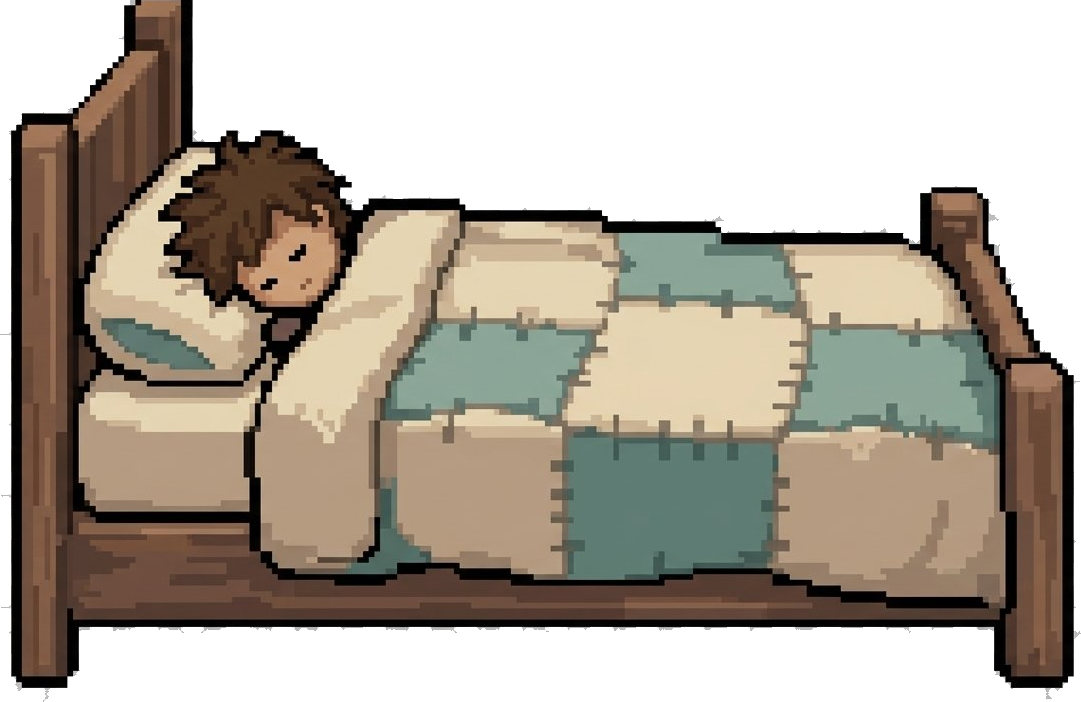
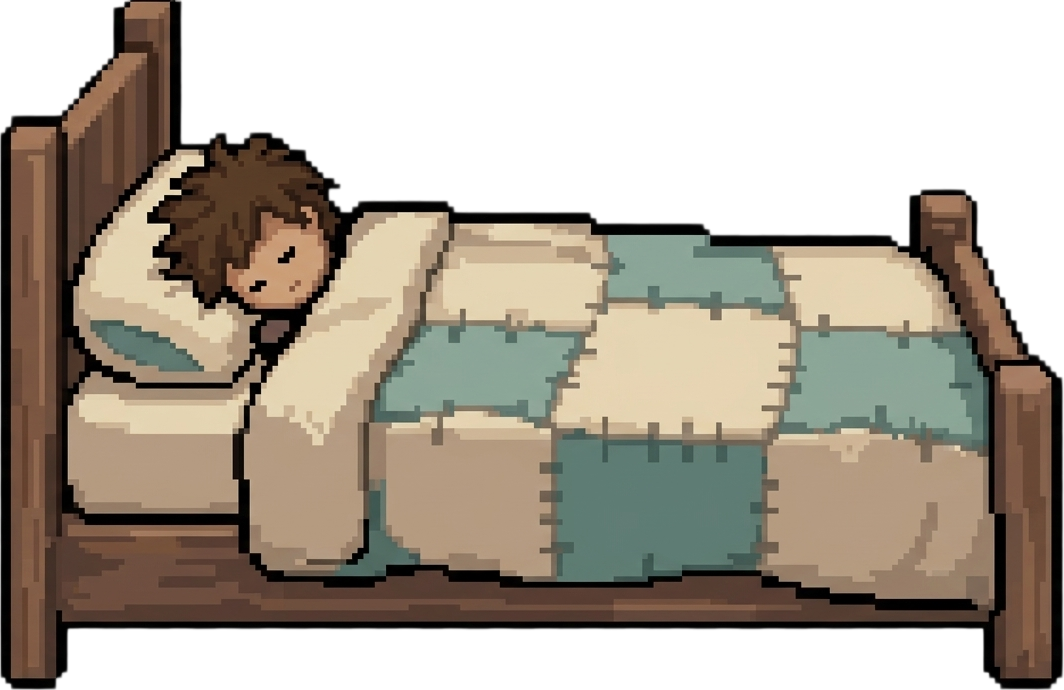
feat(game): finalize morning cabin with gemini furniture; remove asset backups

Changed region(s): [[0.0, 0.0, 1.0, 1.0]]

diff --git a/game-client/src/scenes/MorningScene.js b/game-client/src/scenes/MorningScene.js
@@ -1,10 +1,10 @@
 import Phaser from 'phaser';
 
-// Beat 1 — the morning. A cozy one-room cabin built from real art assets.
-// Walk with arrow keys, press E near a station to interact. Freeform order.
-// Make coffee, sit a while, then head out the door when you're ready.
-// Nature (bird singing + growing light) wakes you; opening the curtains warms
-// the room. The bird motif is planted here and pays off in the ending.
+// Beat 1 — the morning. A cozy one-room cabin: Penzilla walls/floor with the
+// hand-drawn Gemini furniture on top. Walk with arrows, press E at a station.
+// Make coffee and sit a while, make breakfast (cereal + milk from the fridge),
+// then head out the door. Nature wakes you; the curtains warm the room. The
+// bird at the window is planted here and pays off in the ending.
 export default class MorningScene extends Phaser.Scene {
   constructor() {
     super('MorningScene');
@@ -16,15 +16,10 @@ export default class MorningScene extends Phaser.Scene {
 
     this.cameras.main.setBackgroundColor('#1a140e');
 
-    // ── background room ──
-    // cabin walls + floor are tiled from the Penzilla set (see buildBackground)
-
-    // floor line: where furniture and the player stand
     this.floorY = height - 96;
-    this.px = 7;                 // one source pixel = 7 screen pixels (whole-room scale)
+    this.px = 7;                 // penzilla wall/floor scale
     this.buildBackground();
 
-    // dim overlay (brightens when curtains open)
     this.roomDim = this.add.rectangle(0, 0, width, height, 0x0a0d14)
       .setOrigin(0, 0).setDepth(40).setAlpha(0.5);
 
@@ -37,21 +32,21 @@ export default class MorningScene extends Phaser.Scene {
     this.keyE = this.input.keyboard.addKey('E');
     this.keyE.on('down', () => this.tryInteract());
 
-    this.done = { curtains: false, teeth: false, coffee: false };
+    this.done = { curtains: false, teeth: false, coffee: false, cereal: false, milk: false };
     this.busy = false;
     this.sitting = false;
 
     this.startAsleep();
   }
 
+  // scale a hi-res Gemini piece to a target on-screen width / height
+  fitW(key, w) { return w / this.textures.get(key).getSourceImage().width; }
+  fitH(key, h) { return h / this.textures.get(key).getSourceImage().height; }
+
   buildBackground() {
     const { W, H, floorY, px } = this;
-
-    // wall — wallpaper tiled across everything above the floor
     this.add.tileSprite(0, 0, W, floorY, 'cabin-wall')
       .setOrigin(0, 0).setTileScale(px, px).setDepth(-20);
-
-    // floor — floor tile run along the bottom strip
     this.add.tileSprite(0, floorY, W, H - floorY, 'cabin-floor')
       .setOrigin(0, 0).setTileScale(px, px).setDepth(-19);
   }
@@ -60,75 +55,72 @@ export default class MorningScene extends Phaser.Scene {
     const { W, H, floorY } = this;
     this.stations = [];
 
-    // ---- BED (far left, on floor) ----
+    // ---- BED (far left) — starts as the sleeping bed (character in it) ----
     const bedX = W * 0.15;
-    this.bedSprite = this.add.image(bedX, floorY + 2, 'cabin-bed').setOrigin(0.5, 1).setScale(this.px).setDepth(2);
     this.bedX = bedX;
+    this.bedSprite = this.add.image(bedX, floorY + 2, 'cabin-bed-sleeping')
+      .setOrigin(0.5, 1).setScale(this.fitW('cabin-bed-sleeping', 260)).setDepth(2);
 
     // ---- WASHBASIN (left-center) ----
-    const sinkX = W * 0.32;
+    const sinkX = W * 0.30;
     this.add.image(sinkX, floorY + 2, 'cabin-washbasin').setOrigin(0.5, 1).setScale(this.px).setDepth(2);
     this.stations.push({ name: 'teeth', x: sinkX, label: 'brush your teeth' });
 
-    // ---- WINDOW (center, on the wall) ----
+    // ---- WINDOW (center wall) — the bird in the glass ----
     const winX = W * 0.52;
-    const winY = floorY - this.px * 22; // eye-level on the wall
-    this.add.image(winX, winY, 'cabin-window').setOrigin(0.5).setScale(this.px).setDepth(1);
+    const winY = floorY - 210;
+    this.add.image(winX, winY, 'cabin-window').setOrigin(0.5).setScale(this.fitW('cabin-window', 180)).setDepth(1);
     this.stations.push({ name: 'curtains', x: winX, label: 'open the curtains' });
 
-    // ---- KITCHEN: coffee counter + fridge (right) ----
-    const counterX = W * 0.74;
-    const cw = this.px * 8;
-    this.add.image(counterX - cw, floorY + 2, 'cabin-counter-left').setOrigin(0.5, 1).setScale(this.px).setDepth(2);
-    this.add.image(counterX, floorY + 2, 'cabin-counter-mid').setOrigin(0.5, 1).setScale(this.px).setDepth(2);
-    this.add.image(counterX + cw, floorY + 2, 'cabin-counter-right').setOrigin(0.5, 1).setScale(this.px).setDepth(2);
-    this.add.image(counterX - cw, floorY + 2 - cw, 'cabin-teapot').setOrigin(0.5, 1).setScale(this.px).setDepth(3);
-    // coffee station is the counter's left side (the teapot)
-    this.stations.push({ name: 'coffee', x: counterX - 60, label: 'start the coffee' });
+    // ---- KITCHEN: counter (coffee machine + bowl) + fridge ----
+    const counterX = W * 0.72;
+    this.add.image(counterX, floorY + 14, 'cabin-counter').setOrigin(0.5, 1).setScale(this.fitW('cabin-counter', 210)).setDepth(2);
+    this.stations.push({ name: 'coffee', x: counterX - 45, label: 'start the coffee' });
+    this.stations.push({ name: 'cereal', x: counterX + 45, label: 'make some cereal' });
+    this.coffeeX = counterX - 45; this.coffeeY = floorY - 120;
+    this.cerealX = counterX + 45; this.cerealY = floorY - 110;
 
-    // fridge (right of counter) — decor
-    const fridgeX = W * 0.95;
-    this.fridge = this.add.image(fridgeX, floorY + 2, 'cabin-fridge-closed').setOrigin(0.5, 1).setScale(this.px).setDepth(2);
+    // fridge (right) — bottom-LEFT origin so closed/open share the same body position
+    const fridgeX = W * 0.82;
+    this.fridge = this.add.image(fridgeX, floorY + 12, 'cabin-fridge-closed')
+      .setOrigin(0, 1).setScale(this.fitH('cabin-fridge-closed', 155)).setDepth(2);
     this.fridgeX = fridgeX;
+    this.stations.push({ name: 'fridge', x: fridgeX + 40, label: 'get the milk' });
 
-    // ---- DOOR (far right edge) — the way out ----
-    const doorX = W * 0.86;
+    // ---- DOOR (right edge) — the way out ----
+    const doorX = W * 0.97;
     this.add.image(doorX, floorY + 2, 'cabin-door').setOrigin(0.5, 1).setScale(this.px).setDepth(1);
     this.stations.push({ name: 'leave', x: doorX, label: 'head out north' });
     this.doorX = doorX;
 
-    // ---- CEILING LAMP (mount + chain + lamp, hung from the ceiling) ----
-    const lampX = W / 2;
-    const seg = this.px * 8;
-    const lampTopY = -this.px * 2; // pull the mount flush to the ceiling (more negative = higher)
-    this.add.image(lampX, lampTopY, 'cabin-lamp-top').setOrigin(0.5, 0).setScale(this.px).setDepth(3);
-    this.add.image(lampX, lampTopY + seg, 'cabin-lamp-mid').setOrigin(0.5, 0).setScale(this.px).setDepth(3);
-    this.add.image(lampX, lampTopY + seg * 2, 'cabin-lamp-mid').setOrigin(0.5, 0).setScale(this.px).setDepth(3);
-    this.add.image(lampX, lampTopY + seg * 3, 'cabin-lamp-bottom').setOrigin(0.5, 0).setScale(this.px).setDepth(3);
+    // ---- CEILING LAMP (penzilla, hung from ceiling) ----
+    const lampX = W / 2, seg = this.px * 8, top = -this.px * 2;
+    this.add.image(lampX, top, 'cabin-lamp-top').setOrigin(0.5, 0).setScale(this.px).setDepth(3);
+    this.add.image(lampX, top + seg, 'cabin-lamp-mid').setOrigin(0.5, 0).setScale(this.px).setDepth(3);
+    this.add.image(lampX, top + seg * 2, 'cabin-lamp-mid').setOrigin(0.5, 0).setScale(this.px).setDepth(3);
+    this.add.image(lampX, top + seg * 3, 'cabin-lamp-bottom').setOrigin(0.5, 0).setScale(this.px).setDepth(3);
 
-    // ---- WALL DECOR ----
+    // ---- WALL DECOR (penzilla) ----
     this.add.image(W * 0.06, H * 0.34, 'cabin-painting').setOrigin(0.5, 0.5).setScale(this.px).setDepth(1);
-    this.add.image(W * 0.27, H * 0.40, 'cabin-shelf').setOrigin(0.5, 0.5).setScale(this.px).setDepth(1);
-    this.add.image(W * 0.27, H * 0.40 - this.px * 4, 'cabin-radio').setOrigin(0.5, 1).setScale(this.px).setDepth(1);
-    this.add.image(W * 0.22, floorY + 2, 'cabin-plant').setOrigin(0.5, 1).setScale(this.px).setDepth(2);
+    this.add.image(W * 0.24, H * 0.40, 'cabin-shelf').setOrigin(0.5, 0.5).setScale(this.px).setDepth(1);
+    this.add.image(W * 0.20, floorY + 2, 'cabin-plant').setOrigin(0.5, 1).setScale(this.px).setDepth(2);
 
-    // ---- LIVING AREA: sofa + coffee table + mug (the coffee beat) ----
+    // ---- LIVING AREA: sofa + table + mug (the coffee beat) ----
     this.sofaX = W * 0.42;
     this.add.image(this.sofaX, floorY + 2, 'cabin-sofa').setOrigin(0.5, 1).setScale(this.px).setDepth(2);
     const tableX = this.sofaX + this.px * 10;
     this.add.image(tableX, floorY + 2, 'cabin-coffee-table').setOrigin(0.5, 1).setScale(this.px).setDepth(2);
-    this.mugX = tableX;
-    this.mugY = floorY + 2 - this.px * 8;
+    this.mugX = tableX; this.mugY = floorY + 2 - this.px * 8;
     this.mug = this.add.image(tableX, this.mugY, 'cabin-mug').setOrigin(0.5, 1).setScale(this.px).setDepth(3).setVisible(false);
 
-    // ---- FILLER (fills the wall, makes it feel lived-in) ----
+    // ---- FILLER (penzilla) ----
     this.add.image(W * 0.035, floorY + 2, 'cabin-floor-lamp').setOrigin(0.5, 1).setScale(this.px).setDepth(2);
   }
 
   buildPlayer() {
-    this.player = this.add.sprite(this.bedX, this.floorY - this.px * 10, 'player', 12).setScale(3).setDepth(10);
-    this.player.setAngle(90); // lying on the bed until they wake (flip to -90 if his head ends up at the wrong end)
-    if (this.anims.exists('idle')) this.player.play('idle');
+    // hidden while asleep — the character is painted into the sleeping-bed art
+    this.player = this.add.sprite(this.bedX + 70, this.floorY - 40, 'player', 12).setScale(3).setDepth(10);
+    this.player.setVisible(false);
     this.playerSpeed = 3;
     this.canMove = false;
   }
@@ -140,7 +132,6 @@ export default class MorningScene extends Phaser.Scene {
       color: '#f4ead6', fontStyle: 'italic', align: 'center',
       wordWrap: { width: W * 0.7 }, stroke: '#1a140e', strokeThickness: 3
     }).setOrigin(0.5).setDepth(60);
-
     this.prompt = this.add.text(0, 0, '', {
       fontFamily: 'Helvetica Neue, sans-serif', fontSize: '14px', color: '#f4ead6',
       backgroundColor: '#00000077', padding: { x: 8, y: 4 }
@@ -154,15 +145,15 @@ export default class MorningScene extends Phaser.Scene {
     this.tweens.add({ targets: this.roomDim, alpha: 0.38, duration: 5000, ease: 'Sine.inOut' });
     this.time.delayedCall(5000, () => {
       this.thought.setText('morning already. a bird singing somewhere outside.');
-      // sit up off the pillow and stand beside the bed
+      // swap sleeping bed -> empty bed, stand the character up beside it
+      this.bedSprite.setTexture('cabin-bed');
+      this.bedSprite.setScale(this.fitW('cabin-bed', 260));
+      this.player.setPosition(this.bedX + 70, this.floorY - 40);
+      this.player.setAlpha(0).setVisible(true);
+      if (this.anims.exists('idle')) this.player.play('idle');
       this.tweens.add({
-        targets: this.player, angle: 0,
-        duration: 700, ease: 'Sine.inOut',
-        onComplete: () => {
-          this.player.setPosition(this.bedX + 80, this.floorY - 40);
-          this.canMove = true;
-          this.thoughtIdle();
-        }
+        targets: this.player, alpha: 1, duration: 700, ease: 'Sine.inOut',
+        onComplete: () => { this.canMove = true; this.thoughtIdle(); }
       });
     });
   }
@@ -192,6 +183,8 @@ export default class MorningScene extends Phaser.Scene {
       case 'curtains': return this.doCurtains();
       case 'teeth': return this.doTeeth();
       case 'coffee': return this.doCoffee();
+      case 'cereal': return this.doCereal();
+      case 'fridge': return this.doFridge();
       case 'leave': return this.doLeave();
     }
   }
@@ -211,40 +204,30 @@ export default class MorningScene extends Phaser.Scene {
   doTeeth() {
     if (this.done.teeth) { this.thought.setText('minty. good.'); return; }
     this.thought.setText('brushing… (a fresh start).');
-    this.setBusy(1800, () => { this.done.teeth = true; this.sparkle(this.W * 0.32, this.floorY - 150); });
+    this.setBusy(1800, () => { this.done.teeth = true; this.sparkle(this.W * 0.30, this.floorY - 150); });
   }
 
   doCoffee() {
     if (this.done.coffee) { this.thought.setText("coffee's ready. warm."); return; }
     this.thought.setText('coffee brewing…');
-    this.setBusy(2600, () => {
-      this.done.coffee = true;
-      this.sitWithCoffee();
-    });
+    this.setBusy(2600, () => { this.done.coffee = true; this.sitWithCoffee(); });
   }
 
   sitWithCoffee() {
-    this.canMove = false;
-    this.busy = true;
-    this.prompt.setVisible(false);
+    this.canMove = false; this.busy = true; this.prompt.setVisible(false);
     this.cameras.main.fadeOut(600, 21, 17, 12);
     this.cameras.main.once('camerafadeoutcomplete', () => {
-      // settle onto the sofa with the mug on the table
       this.player.setPosition(this.sofaX, this.floorY - this.px * 5);
       this.player.setFlipX(false);
       if (this.anims.exists('idle')) this.player.play('idle');
       this.mug.setVisible(true);
       this.cameras.main.fadeIn(700, 21, 17, 12);
       this.cameras.main.once('camerafadeincomplete', () => {
-        this.sitting = true;
-        this.busy = false;
+        this.sitting = true; this.busy = false;
         this.thought.setText('a few quiet minutes before the forest.');
         this.prompt.setText('▸ e  get up');
-        this.prompt.setPosition(this.player.x, this.floorY - 80);
-        this.prompt.setVisible(true);
-        this.sipTimer = this.time.addEvent({
-          delay: 1500, loop: true, callback: () => this.steam(this.mugX, this.mugY)
-        });
+        this.prompt.setPosition(this.player.x, this.floorY - 80).setVisible(true);
+        this.sipTimer = this.time.addEvent({ delay: 1500, loop: true, callback: () => this.steam(this.mugX, this.mugY) });
       });
     });
   }
@@ -258,17 +241,41 @@ export default class MorningScene extends Phaser.Scene {
     this.canMove = true;
   }
 
+  doCereal() {
+    if (this.done.cereal && this.done.milk) { this.thought.setText("breakfast's ready. good."); return; }
+    if (this.done.cereal) { this.thought.setText("cereal's in the bowl. just the milk now — from the fridge."); return; }
+    this.done.cereal = true;
+    this.thought.setText('cereal in the bowl. now the milk from the fridge.');
+  }
+
+  doFridge() {
+    if (this.done.milk) { this.thought.setText("breakfast's ready. good."); return; }
+    if (!this.done.cereal) { this.thought.setText('cereal in the bowl first, then the milk.'); this.openFridgeBriefly(); return; }
+    this.openFridgeBriefly();
+    this.thought.setText('milk in the bowl… there. breakfast.');
+    this.done.milk = true;
+  }
+
+  openFridgeBriefly() {
+    this.fridge.setTexture('cabin-fridge-open');
+    this.fridge.setScale(this.fitH('cabin-fridge-open', 155));
+    this.time.delayedCall(1100, () => {
+      this.fridge.setTexture('cabin-fridge-closed');
+      this.fridge.setScale(this.fitH('cabin-fridge-closed', 155));
+    });
+  }
+
   doLeave() {
-    const ready = this.done.teeth && this.done.coffee;
+    const ready = this.done.teeth && this.done.coffee && this.done.cereal && this.done.milk;
     if (!ready) {
       const left = [];
       if (!this.done.teeth) left.push('brush my teeth');
       if (!this.done.coffee) left.push('have my coffee');
-      this.thought.setText('not yet — i should ' + left.join(' and ') + ' first.');
+      if (!this.done.cereal || !this.done.milk) left.push('finish breakfast');
+      this.thought.setText('not yet — i should ' + left.join(', ') + ' first.');
       return;
     }
-    this.canMove = false;
-    this.busy = true;
+    this.canMove = false; this.busy = true;
     this.thought.setText('alright. time to go north.');
     this.prompt.setVisible(false);
     if (this.anims.exists('walk')) this.player.play('walk');
@@ -284,7 +291,7 @@ export default class MorningScene extends Phaser.Scene {
 
   chirp() {
     for (let i = 0; i < 2; i++) {
-      const note = this.add.text((this.birdX || this.W * 0.7) + i * 6, (this.birdY || 200), '♪', {
+      const note = this.add.text((this.birdX || this.W * 0.52) + i * 6, (this.birdY || 220), '♪', {
         fontFamily: 'sans-serif', fontSize: '15px', color: '#f4ead6'
       }).setOrigin(0.5).setDepth(40);
       this.tweens.add({ targets: note, y: note.y - 30, alpha: 0, duration: 1100, delay: i * 180, onComplete: () => note.destroy() });
@@ -305,26 +312,21 @@ export default class MorningScene extends Phaser.Scene {
 
   update() {
     if (!this.canMove || this.busy) return;
-
     const left = this.cursors.left.isDown || this.wasd.A.isDown;
     const right = this.cursors.right.isDown || this.wasd.D.isDown;
     let moving = false;
-
     if (left) { this.player.x -= this.playerSpeed; this.player.setFlipX(true); moving = true; }
     else if (right) { this.player.x += this.playerSpeed; this.player.setFlipX(false); moving = true; }
     this.player.x = Phaser.Math.Clamp(this.player.x, 40, this.W - 40);
-
     if (moving) {
       if (this.anims.exists('walk') && this.player.anims.currentAnim?.key !== 'walk') this.player.play('walk');
     } else {
       if (this.anims.exists('idle') && this.player.anims.currentAnim?.key !== 'idle') this.player.play('idle');
     }
-
     const s = this.nearestStation();
     if (s) {
       this.prompt.setText('▸ e  ' + s.label);
-      this.prompt.setPosition(this.player.x, this.floorY - 80);
-      this.prompt.setVisible(true);
+      this.prompt.setPosition(this.player.x, this.floorY - 80).setVisible(true);
     } else {
       this.prompt.setVisible(false);
     }

diff --git a/game-client/src/scenes/BootScene.js b/game-client/src/scenes/BootScene.js
@@ -41,7 +41,7 @@ export default class BootScene extends Phaser.Scene {
 
     // Cabin interior assets (Gemini art, cut to transparent PNGs)
     this.load.image('cabin-bg', 'assets/cabin/bg.png');
-    this.load.image('cabin-bed', 'assets/cabin/bed_side.png');
+    this.load.image('cabin-bed', 'assets/cabin/bed_empty.png');
     this.load.image('cabin-bed-sleeping', 'assets/cabin/bed_sleeping.png');
     this.load.image('cabin-window', 'assets/cabin/window.png');
     this.load.image('cabin-curtain-left', 'assets/cabin/curtain_left.png');
